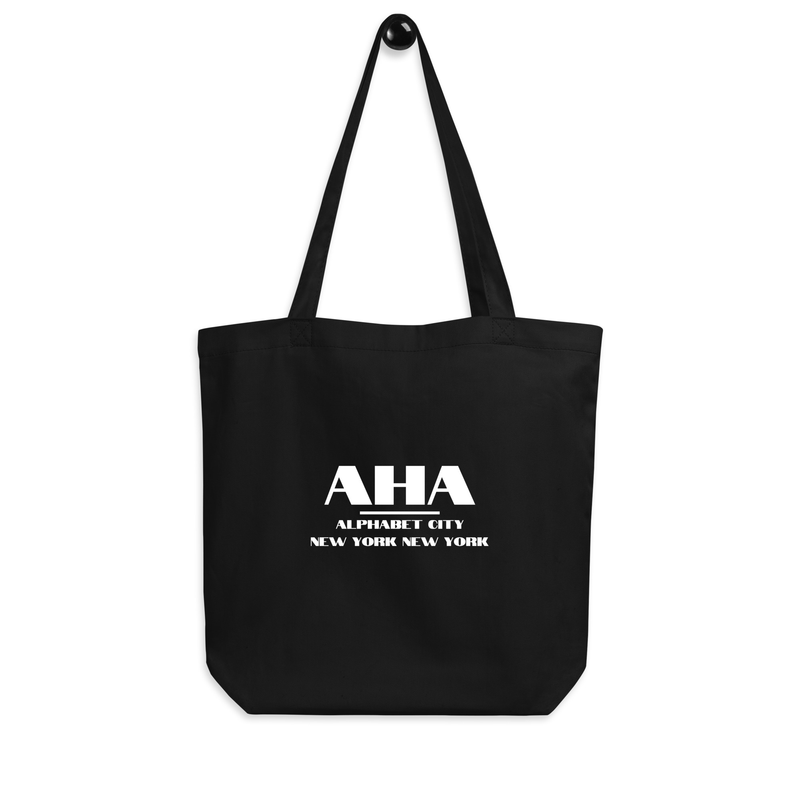
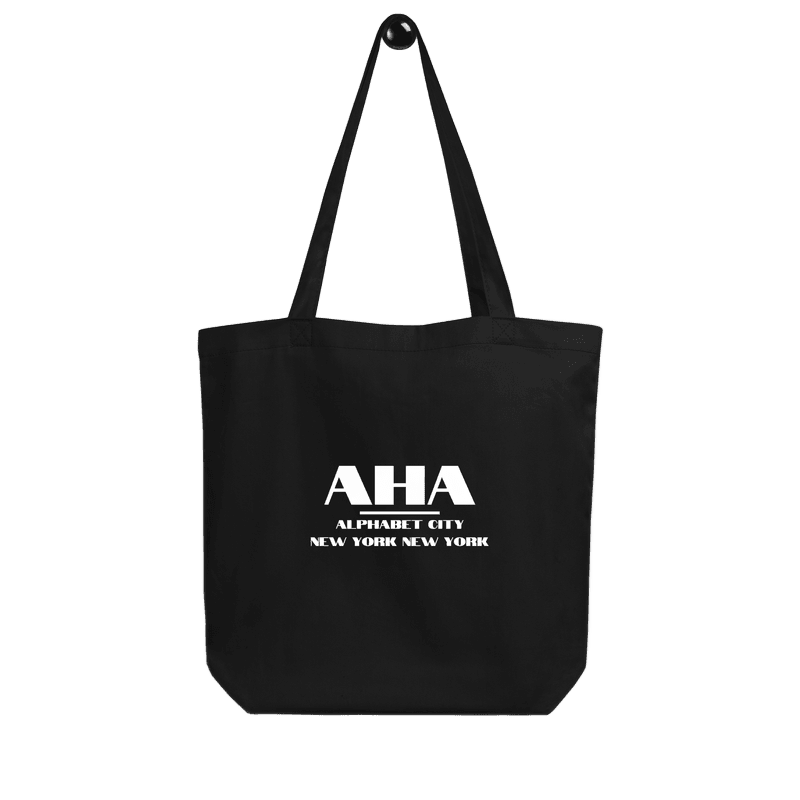
fix: remove backgrounds from 6 opaque PNGs and add 2 non-Printful product images
Processed with @imgly/background-removal-node:
- AHA Cuffed Beanie, Black Sheep Can Cooler, Books and Regrets Tote Bag,
  Branded Black Stickers, Pink Sheep Socks, Pin Buttons Set #2
- Downloaded and processed Dots Sweater and Zebra Cardigan from Square CDN

diff --git a/scripts/fix-remaining.ts b/scripts/fix-remaining.ts
@@ -1,0 +1,96 @@
+import { removeBackground } from "@imgly/background-removal-node";
+import fs from "fs";
+import path from "path";
+
+const PRINTFUL_DIR = path.join(process.cwd(), "public", "printful-assets");
+
+async function processLocal(filename: string): Promise<void> {
+  const filepath = path.join(PRINTFUL_DIR, filename);
+  console.log("Processing " + filename + "...");
+  const inputBuffer = fs.readFileSync(filepath);
+  const blob = new Blob([inputBuffer], { type: "image/png" });
+  const resultBlob = await removeBackground(blob);
+  const arrayBuffer = await resultBlob.arrayBuffer();
+  fs.writeFileSync(filepath, Buffer.from(arrayBuffer));
+  console.log("  done — " + filename);
+}
+
+async function processRemote(
+  productName: string,
+  filename: string
+): Promise<void> {
+  console.log("Fetching Square image for " + productName + "...");
+  const token = process.env.SQUARE_ACCESS_TOKEN;
+  if (!token) {
+    console.error("  SQUARE_ACCESS_TOKEN not set");
+    return;
+  }
+
+  const res = await fetch("https://connect.squareup.com/v2/catalog/search", {
+    method: "POST",
+    headers: {
+      "Square-Version": "2024-01-18",
+      Authorization: "Bearer " + token,
+      "Content-Type": "application/json",
+    },
+    body: JSON.stringify({
+      object_types: ["ITEM"],
+      query: { text_query: { keywords: [productName] } },
+      include_related_objects: true,
+    }),
+  });
+
+  const data = await res.json();
+  const items = data.objects || [];
+  const related = data.related_objects || [];
+
+  const item = items.find(
+    (i: any) =>
+      i.item_data?.name?.toLowerCase() === productName.toLowerCase()
+  );
+  if (!item) {
+    console.error("  Not found: " + productName);
+    return;
+  }
+
+  const imageIds = item.item_data?.image_ids || [];
+  let imageUrl = "";
+  for (const id of imageIds) {
+    const imgObj = related.find(
+      (r: any) => r.id === id && r.type === "IMAGE"
+    );
+    if (imgObj?.image_data?.url) {
+      imageUrl = imgObj.image_data.url;
+      break;
+    }
+  }
+  if (!imageUrl) {
+    console.error("  No image for: " + productName);
+    return;
+  }
+
+  console.log("  Downloading...");
+  const imgRes = await fetch(imageUrl);
+  const ab = await imgRes.arrayBuffer();
+  const blob = new Blob([Buffer.from(ab)], { type: "image/jpeg" });
+
+  console.log("  Removing background...");
+  const resultBlob = await removeBackground(blob);
+  const resultBuf = await resultBlob.arrayBuffer();
+  fs.writeFileSync(path.join(PRINTFUL_DIR, filename), Buffer.from(resultBuf));
+  console.log("  done — " + filename);
+}
+
+async function main() {
+  // Non-Printful items from Square CDN (correct full product names)
+  await processRemote(
+    "Dots - Unisex Knitted Crewneck Sweater",
+    "Dots_-_Unisex_Knitted_Crewneck_Sweater.png"
+  );
+  await processRemote(
+    "Zebra - Unisex Knitted Cardigan",
+    "Zebra_-_Unisex_Knitted_Cardigan.png"
+  );
+}
+
+main();

diff --git a/scripts/fix-opaque-images.ts b/scripts/fix-opaque-images.ts
@@ -16,8 +16,8 @@ const OPAQUE_PNGS = [
 
 // 2 non-Printful items: fetch their Square CDN image URLs
 const NON_PRINTFUL_PRODUCTS = [
-  { name: "Dots Sweater", filename: "Dots_Sweater.png" },
-  { name: "Zebra Cardigan", filename: "Zebra_Cardigan.png" },
+  { name: "Dots - Unisex Knitted Crewneck Sweater", filename: "Dots_-_Unisex_Knitted_Crewneck_Sweater.png" },
+  { name: "Zebra - Unisex Knitted Cardigan", filename: "Zebra_-_Unisex_Knitted_Cardigan.png" },
 ];
 
 async function processLocalPng(filename: string): Promise<void> {
